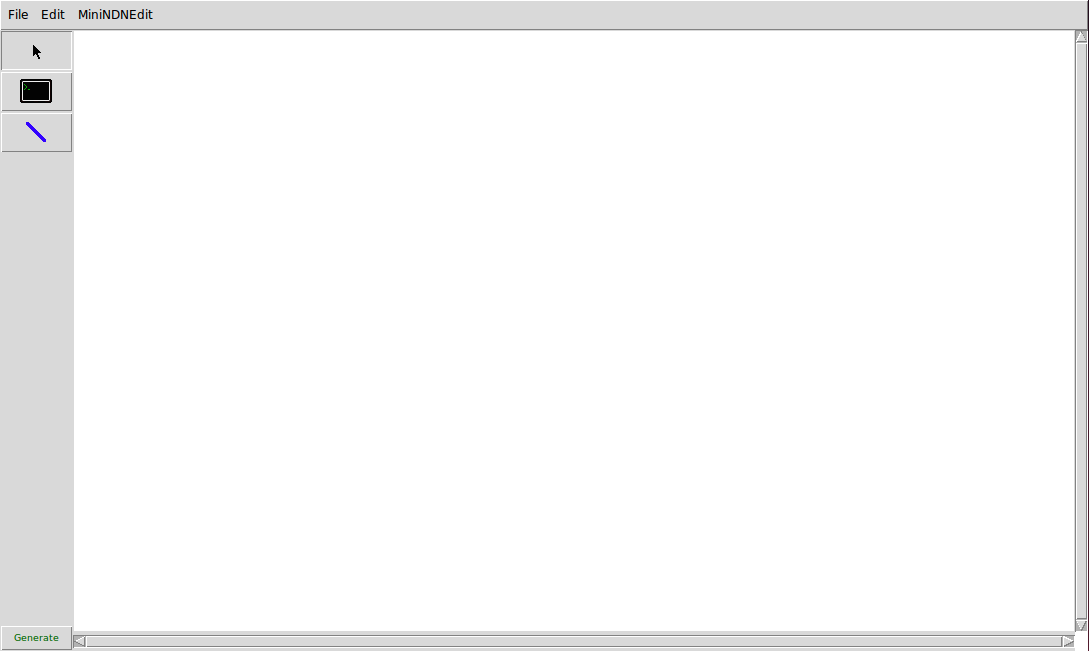
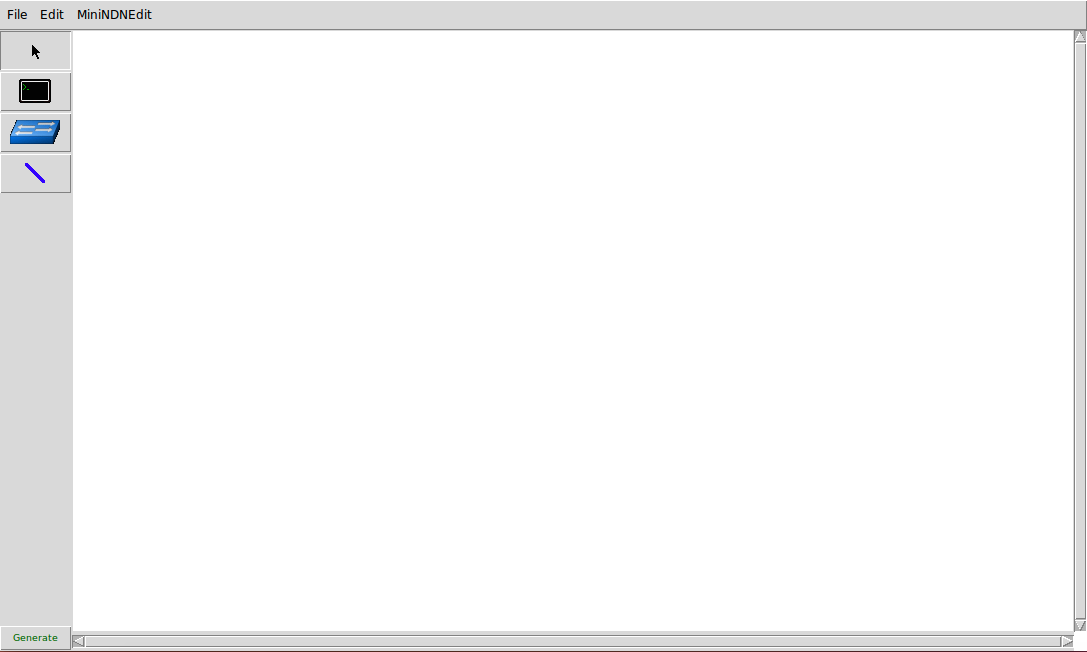
Add support for switches in GUI and configuration file
refs: #2583

diff --git a/ndn/conf_parser.py b/ndn/conf_parser.py
@@ -86,6 +86,10 @@ class confNDNHost():
                ' Angle: '  + str(self.angle) + \
                ' NLSR Parameters: ' + self.nlsrParameters
 
+class confNdnSwitch:
+    def __init__(self, name):
+        self.name = name
+
 class confNDNLink():
 
     def __init__(self,h1,h2,linkDict=None):
@@ -146,6 +150,24 @@ def parse_hosts(conf_arq):
         hosts.append(confNDNHost(name, app, params, cpu, cores, cache))
 
     return hosts
+
+def parse_switches(conf_arq):
+    'Parse switches section from the conf file.'
+    config = ConfigParser.RawConfigParser()
+    config.read(conf_arq)
+
+    switches = []
+
+    try:
+        items = config.items('switches')
+    except ConfigParser.NoSectionError:
+        return switches
+
+    for item in items:
+        name = item[0]
+        switches.append(confNdnSwitch(name))
+
+    return switches
 
 def parse_links(conf_arq):
     'Parse links section from the conf file.'

diff --git a/docs/GUI.md b/docs/GUI.md
@@ -43,8 +43,14 @@ removed from the topology using the ``backspace`` key or by selecting ``edit/cut
 ### Host tool
 ![host-tool](img/gui/host-tool.png)
 
-The *host tool* is used to add a node to the topology. Click on the canvas to create a new node at
-the mouse cursor's position.
+The *host tool* is used to add a host node to the topology. Click on the canvas to create a new host
+node at the mouse cursor's position.
+
+### Switch tool
+![switch-tool](img/gui/switch-tool.png)
+
+The *switch tool* is used to add a switch to the topology. Click on the canvas to create a new
+switch at the mouse cursor's position.
 
 ### Link tool
 ![link-tool](img/gui/link-tool.png)
